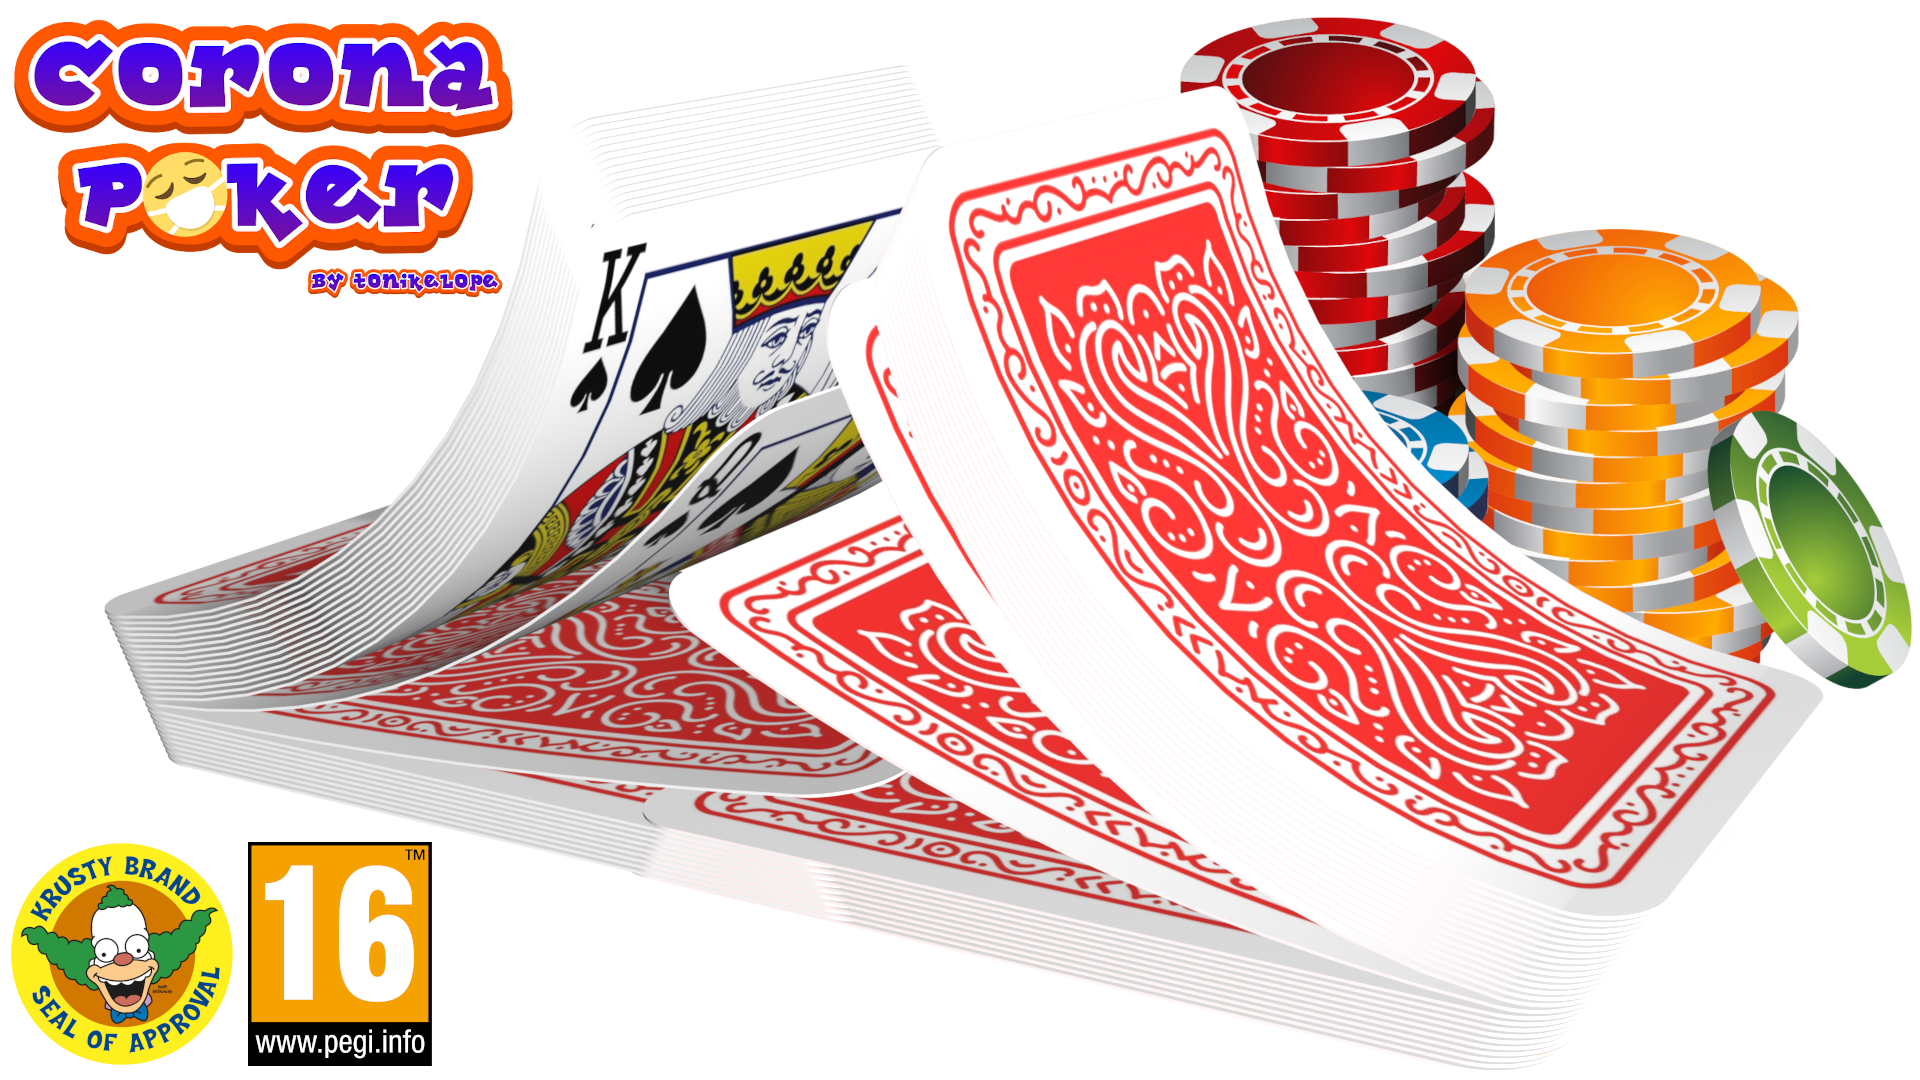
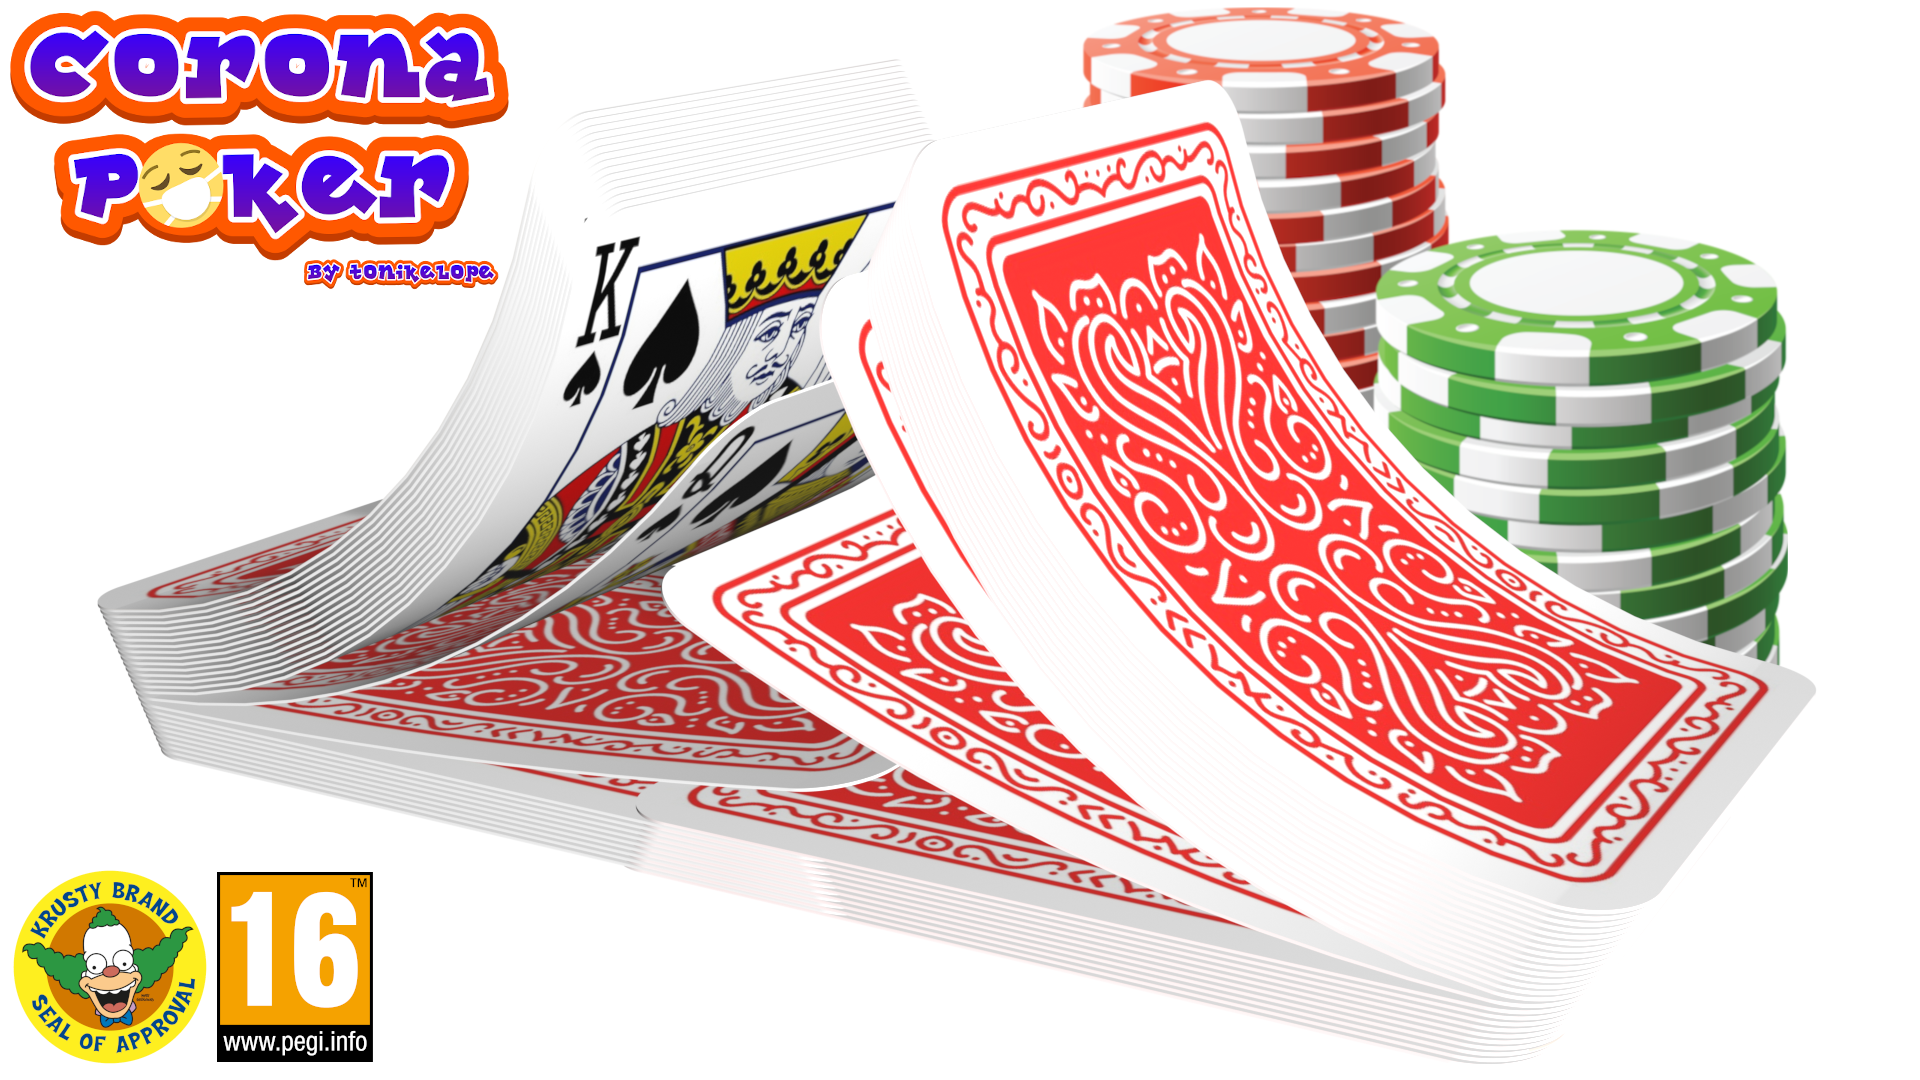
16.23
Nueva pantalla de inicio

diff --git a/src/main/java/com/tonikelope/coronapoker/Init.java b/src/main/java/com/tonikelope/coronapoker/Init.java
@@ -106,6 +106,7 @@ public class Init extends javax.swing.JFrame {
     public static volatile Method M1 = null;
     public static volatile Method M2 = null;
     public static volatile Image I1 = null;
+    public static volatile String CORONA_INIT_IMAGE = "/images/corona_init.png";
     public static volatile boolean PEGI18_MOD = false;
     public static volatile boolean PLAYING_CINEMATIC = false;
     public static volatile VolumeControlDialog VOLUME_DIALOG = null;
@@ -232,11 +233,11 @@ public class Init extends javax.swing.JFrame {
 
         quote.setForeground(Color.white);
 
-        Font font = new Font("Dialog", Font.ITALIC, 22);
+        Font font = new Font("Dialog", Font.ITALIC, 18);
 
         quote.setFont(font);
 
-        quote.setLocation(0, 25);
+        quote.setLocation(0, 5);
 
         tapete.add(quote, JLayeredPane.POPUP_LAYER);
 
@@ -256,7 +257,7 @@ public class Init extends javax.swing.JFrame {
                         new_w = Math.round(1920 * new_h / 1080);
                     }
 
-                    Helpers.setScaledIconLabel(Init.VENTANA_INICIO.getBaraja_fondo(), getClass().getResource("/images/corona_init.png"), Math.round(new_w * 0.8f), Math.round(new_h * 0.8f));
+                    Helpers.setScaledIconLabel(Init.VENTANA_INICIO.getBaraja_fondo(), getClass().getResource(CORONA_INIT_IMAGE), Math.round(new_w * 0.9f), Math.round(new_h * 0.9f));
                 }
 
                 quote.setSize((int) getWidth(), 150);
@@ -466,7 +467,7 @@ public class Init extends javax.swing.JFrame {
 
         quote_timer.setInitialDelay(0);
 
-        Helpers.setScaledIconLabel(baraja_fondo, getClass().getResource("/images/corona_init.png"), Math.round(1920 * 0.8f), Math.round(1080 * 0.8f));
+        Helpers.setScaledIconLabel(baraja_fondo, getClass().getResource(CORONA_INIT_IMAGE), Math.round(1920 * 0.9f), Math.round(1080 * 0.9f));
 
         Helpers.setScaledIconLabel(sound_icon, getClass().getResource(GameFrame.SONIDOS ? "/images/sound_b.png" : "/images/mute_b.png"), 30, 30);
 
@@ -955,6 +956,10 @@ public class Init extends javax.swing.JFrame {
                 WINDOW_TITLE += " @ " + MOD.get("name") + " " + MOD.get("version");
 
                 PEGI18_MOD = (MOD.containsKey("adults") && (boolean) MOD.get("adults"));
+                
+                if(PEGI18_MOD){
+                    CORONA_INIT_IMAGE = "/images/corona_init_18.png";
+                }
 
                 //Cargamos las barajas del MOD
                 for (Map.Entry<String, HashMap> entry : ((HashMap<String, HashMap>) Init.MOD.get("decks")).entrySet()) {

diff --git a/src/main/java/com/tonikelope/coronapoker/AboutDialog.java b/src/main/java/com/tonikelope/coronapoker/AboutDialog.java
@@ -55,7 +55,7 @@ import javax.swing.Timer;
  */
 public class AboutDialog extends javax.swing.JDialog {
 
-    public static final String VERSION = "16.22";
+    public static final String VERSION = "16.23";
     public static final String UPDATE_URL = "https://github.com/tonikelope/coronapoker/releases/latest";
     public static final String TITLE = "¿De dónde ha salido esto?";
     public static final int MAX_MOD_LOGO_HEIGHT = 75;
